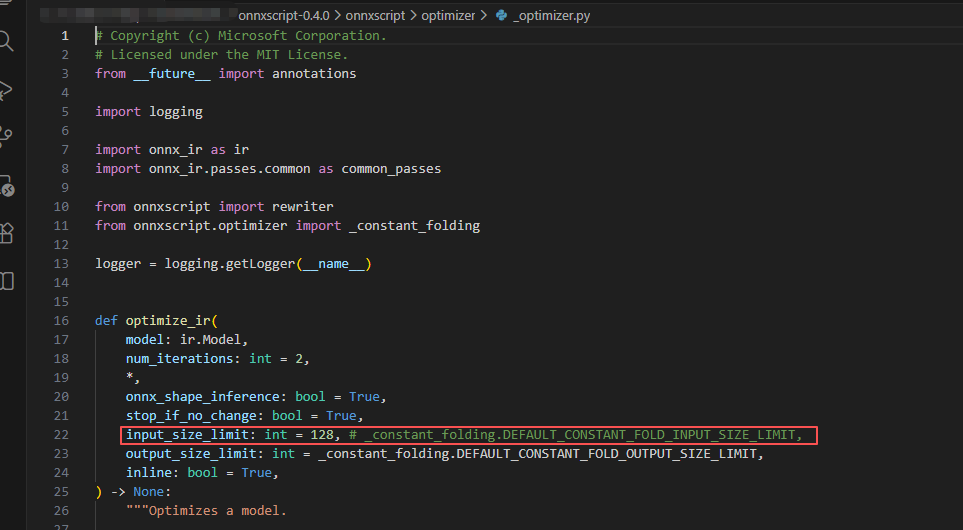
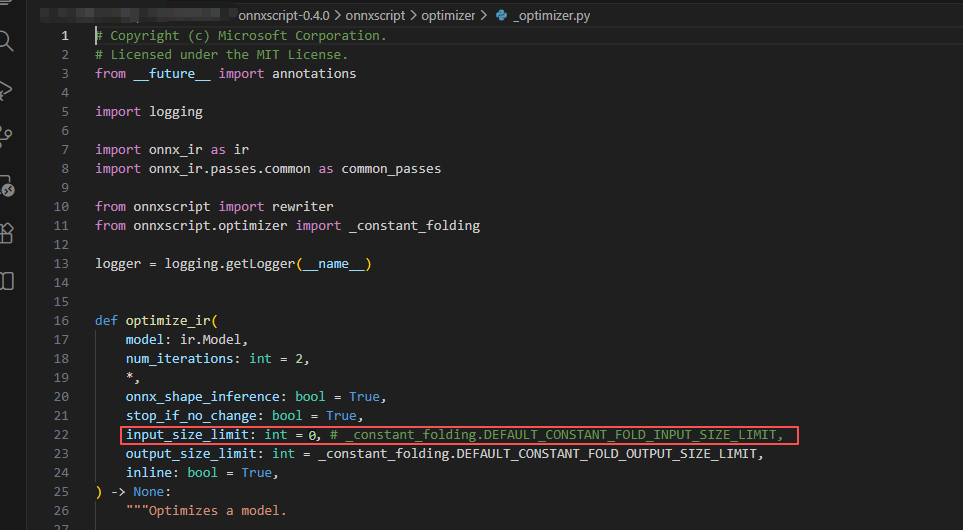
优化代码结构，更新环境依赖

Changed region(s): [[0.3115, 0.8151, 0.8411, 0.8453]]

diff --git a/eval.py b/eval.py
@@ -7,9 +7,9 @@ model.load("yolo11n.pt")  # build from YAML and transfer weights
 # Validate the model
 metrics = model.val(data="coco.yaml",                                   # 数据集
                     batch=32,
-                    qat_pt_path="./runs/detect/qat/weights/last.pt",  # 评估qat模型路径
+                    qat_pt_path="./runs/detect/qat/weights/last.pt",    # 评估qat模型路径
                     qat_onnx_imgsz=[640, 640],                          # 评估时的shape, [h, w]
-                    device=2,
+                    device=0,
                     )
 metrics.box.map  # map50-95
 metrics.box.map50  # map50

diff --git a/train-gpus.py b/train-gpus.py
@@ -10,14 +10,14 @@ results = model.train(
     epochs=12,
     imgsz=640,
     qat_onnx_imgsz=[640, 640],
-    device=[2,3],
+    device=[0,1],
     project="runs/detect",      # 保存目录
     name="qat",
     save_period=1,
     qat_onnx_sp="runs/last_checkpoint.onnx", # 训练完成后，导出的onnx
     lr0=0.00003,
     lrf=0.1,
-    # fraction=0.01,  # 1%训练数据，进行流程测试
+    # fraction=1,  # 可设0.01训练数据，进行流程测试
 )
 
 # python -m torch.distributed.run --nproc_per_node 2 train-gpus.py

diff --git a/train.py b/train.py
@@ -10,12 +10,12 @@ results = model.train(
     epochs=10,
     imgsz=640,
     qat_onnx_imgsz=[640, 640],
-    device=2,
+    device=0,
     project="runs/detect",      # 保存目录
     name="qat",
     save_period=1,
     qat_onnx_sp="runs/last_checkpoint.onnx", # 训练完成后，导出的onnx
     lr0=0.00004,
     lrf=0.2,
-    fraction=0.01,  # 1%训练数据，进行流程测试
+    # fraction=1,  # 可设0.01训练数据，进行流程测试
 )

diff --git a/export.py b/export.py
@@ -30,7 +30,7 @@ model = YOLO("yolo11n.yaml")
 #---export config---
 qat_onnx_imgsz = [1, 3, 640, 640] # 推理模型输入大小
 device = 'cuda'             # 
-qat_onnx_sp = './qat.onnx'  # 保存路径，最终会导出qat_slim.onnx
+qat_onnx_sp = './qat.onnx'  # 保存路径，最终会导出 qat_slim.onnx
 qat_weights = 'runs/detect/qat2/weights/last.pt'    # qat权重
 qat_weight_dict_sp = './qat.pth' # 保存qat权重路径 
 

diff --git a/README_nano.md b/README_nano.md
@@ -1,45 +1,54 @@
 # nano模型的训练环境安装
-前提：卷积核参数量小于512
-方法：使用官方代码导出`onnx`模型查看最小卷积核大小，确定`input_size_limit`大小进行对应配置。如下图中为 8x3x3x3=216小于512，需配置`input_size_limit=192`或更小数值。
-![alt text](./assets/image_kernel.png)
 
-## 环境安装
 ### 1.1 安装基础环境
 ```
 pip install -r requirements-nano.txt
 pip install -e .
 ```
 ### 1.2 安装onnxscript
-onnscript 需从调整源码，从源码安装。
-#### 1.2.1 下载0.4.0的源码
+
+#### 1.2.1 背景
+
+**原因：** 在导出代码，使用了 `onnx_program.optimize()` 进行图优化，内部调用 `onnxscript`，其内部设置了 `input_size_limit=512`，若节点的 `weight shape` 小于这个值，则会将节点进行常量折叠，导致含量化参数的 `DequantizeLinear` 节点丢失。
+
+所以 `onnscript` 需调整源码，从源码安装。 
+
+如 `C2PSA` 模块含 `Attention`，其中有 `Mul` 算子，如果不设置为`0`，左上角的 `DequantizeLinear` 会被折叠，导致后续量化报错。
+
+![alt text](./assets/mul.png)
+
+#### 1.2.2 下载0.4.0的源码
 ``` 
 https://github.com/microsoft/onnxscript/archive/refs/tags/v0.4.0.zip
+或
 https://github.com/microsoft/onnxscript/archive/refs/tags/v0.4.0.tar.gz
 ```
-#### 1.2.1 调整源码
+#### 1.2.3 调整源码
 解压文件并进入文件目录。
 ```
 cd onnxscript/optimizer
 ```
-修改`_optimizer.py`中`input_size_limit`为0。如果自定义yolo结构，不使用C2PSA模块，可根据实际导出图中算子最小卷积核大小设置`input_size_limit`。
+修改 `_optimizer.py` 中 `input_size_limit` 为 `0` 。如果自定义yolo结构，不使用 `C2PSA` 模块，可参考 [1.3.2 Conv2d算子示例](#section1.3.2) ，进行设置`input_size_limit`。
 
 ![alt text](./assets/image-onnxscript.png)
 
-原因：PSA模块含Attention，其中有Mul算子，如果不设置为0量化信息会被折叠，导致后续量化报错。
-![alt text](./assets/mul.png)
-
-#### 1.2.3 安装
+#### 1.2.4 安装
 ``` shell
 # onnxscript目录下
 pip install -r requirements-dev.txt
 pip install -e .
 ```
-### 1.3 确定input_size_limit大小
-原因：在导出代码，使用了`onnx_program.optimize()`进行图优化，内部调用 `onnxscript`，其内部设置了 `input_size_limit=512`，若节点的`weight shape`小于这个值，则会将节点进行常量折叠，导致`DequantizeLinear`节点丢失。
-图结构正常：
+### 1.3 其他
+
+#### 1.3.1 官方修复
+此问题在后续版本有修复，[[ONNX] Optimize should not fold DequantizeLinear](https://github.com/pytorch/pytorch/issues/177611)，但目前尚未测试新版本 `onnxscript`，所以仍采用这种方式安装。
+
+<span id="section1.3.2"></span>
+#### 1.3.2 Conv2d算子示例
+正常图结构（左侧）与 异常图结构（右侧，卷积算子含量化参数的 `DequantizeLinear` 被折叠） ：
 
 ![alt text](./assets/image_norm.png)
 
-图结构异常，卷积算子的`DequantizeLinear`被折叠:
+**方法：** 使用官方代码导出 `onnx` 模型查看最小卷积核大小，确定 `input_size_limit` 大小进行对应配置。如下图中为 `8x3x3x3=216` 小于 `512`，需配置 `input_size_limit=192` 或更小数值。
 
-![alt text](./assets/image_error.png)
+![alt text](./assets/image_kernel.png)

diff --git a/README.md b/README.md
@@ -1,6 +1,6 @@
 # QAT.Ultralytics
 
-本仓库基于 Ultralytics，用于调试和验证 YOLO 系列模型的 QAT（Quantization Aware Training）训练、导出与部署转换流程。
+本仓库基于 Ultralytics，用于调试和验证 YOLO11 系列模型的 QAT（Quantization Aware Training）训练、导出与部署转换流程。
 
 ## 精度参考
 
@@ -20,6 +20,27 @@ cd QAT.Ultralytics
 pip install -r requirements.txt
 pip install -e .
 ```
+下载 `onnxscript 0.4.0` 的源码
+``` 
+https://github.com/microsoft/onnxscript/archive/refs/tags/v0.4.0.zip
+或
+https://github.com/microsoft/onnxscript/archive/refs/tags/v0.4.0.tar.gz
+```
+解压文件并进入文件目录，调整源码。
+```
+cd onnxscript/optimizer
+```
+修改 `_optimizer.py` 中 `input_size_limit` 为 `0`。
+
+![alt text](./assets/image-onnxscript.png)
+
+安装 `onnxscript`。
+``` shell
+# onnxscript目录下
+pip install -r requirements-dev.txt
+pip install -e .
+```
+详情可以阅读 [README_nano.md](./README_nano.md)。
 
 版本约束：
 
@@ -27,7 +48,6 @@ pip install -e .
 - `onnxruntime==1.21.0`
 - `onnxscript==0.4.0`
 
-如果使用 `yolo11n` 或自定义的轻量模型进行QAT，先阅读 [README_nano.md](./README_nano.md)。
 
 ## 快速开始
 
@@ -62,6 +82,6 @@ python export.py
 ```bash
 python test.py
 ```
-## 部署
+## 模型部署
 请阅读 [qat_deployment.md](./compile/qat_deployment.md)。
 
